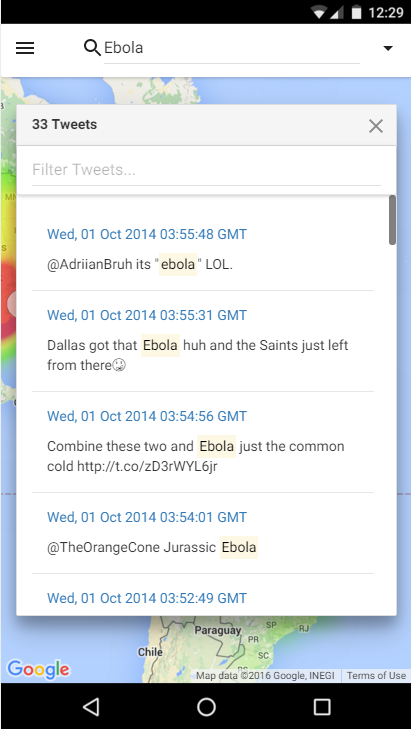
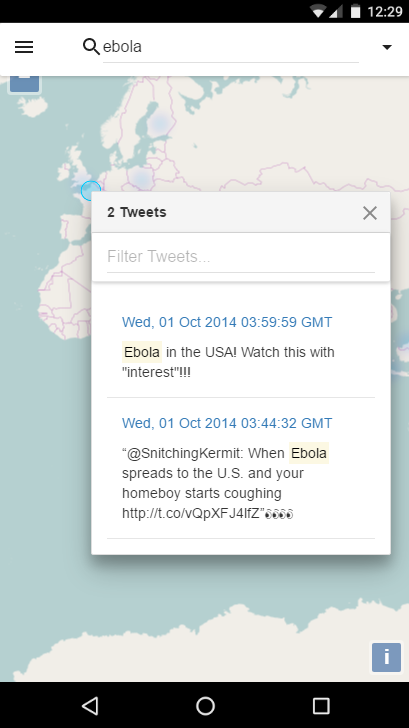
issue_89: adding new screenshots

diff --git a/client/src/components/Map/Map.js b/client/src/components/Map/Map.js
@@ -65,7 +65,8 @@ class Map extends Component {
       isCircleVisible,
       searchUUID,
       tweets,
-      selectedLayer
+      selectedLayer,
+      coordinate
     } = this.props;
 
     // work with map circle only if its property has changed
@@ -87,18 +88,22 @@ class Map extends Component {
     if (prevProps.selectedLayer !== selectedLayer) {
       this._showLayer(selectedLayer);
     }
+
+    // change popup position
+    if (prevProps.coordinate !== coordinate) {
+      this._popupOverlay.setPosition(coordinate);
+    }
   }
 
   _mapOnClick = (event) => {
     const { onClick, clickRadius } = this.props;
 
-    const { coordinate, pixel } = event;
-    this._popupOverlay.setPosition(coordinate);
+    const { coordinate } = event;
     const lonLat = ol.proj.transform(coordinate, epsg3857, epsg4326);
 
     // TBD: we need to move this logic somewhere else
     // get tweets which are in the selection circle
-    const mainSource = this._heatMapLayer.getSource();
+    const mainSource = this._heatMapLayer.getSource() || new ol.source.Vector();
     const circleSource = this._getCircleVectorSource(lonLat, coordinate, clickRadius);
     const selectedFeatures = mainSource.getFeaturesInExtent(circleSource.getExtent());
     const selectedTweets = selectedFeatures.map(feature => {
@@ -109,7 +114,7 @@ class Map extends Component {
       };
     });
 
-    onClick(pixel, lonLat, coordinate, selectedTweets);
+    onClick(lonLat, coordinate, selectedTweets);
   };
 
   _createTileLayer = () => {

diff --git a/client/src/containers/MapContainer/MapContainer.js b/client/src/containers/MapContainer/MapContainer.js
@@ -7,7 +7,7 @@ import * as dataPopupActions from '../../actions/dataPopupActions.js';
 import { Map } from '../../components';
 
 class MapContainer extends Component {
-  _onClick = (pixel, lonLat, coordinate, selectedTweets) => {
+  _onClick = (lonLat, coordinate, selectedTweets) => {
     const {
       click,
       show,
@@ -26,7 +26,7 @@ class MapContainer extends Component {
       return;
     }
 
-    show(pixel);
+    show(coordinate);
     click(lonLat, coordinate, selectedTweets);
   };
 

diff --git a/client/src/reducers/dataPopup.js b/client/src/reducers/dataPopup.js
@@ -1,7 +1,7 @@
 import * as types from '../constants/actionTypes.js';
 
 const initialState = {
-  pixel: [0, 0],
+  coordinate: [0, 0],
   visible: false,
   filterText: '',
   showFilter: true,
@@ -27,7 +27,7 @@ export default function dataPopup(state = initialState, action) {
         ...state,
         filterText: '',
         visible: true,
-        pixel: action.pixel
+        coordinate: action.coordinate
       };
     case types.SLIDEPANEL_SHOW:
     case types.NAVBAR_SEARCHSTRING_FOCUS:

diff --git a/client/static/templates/index.html b/client/static/templates/index.html
@@ -2,7 +2,7 @@
 <html lang="en">
   <head>
     <meta charset="UTF-8">
-    <meta name="viewport" content="width=device-width, initial-scale=1">
+    <meta name="viewport" content="initial-scale=1.0, user-scalable=no, width=device-width">
     <title>TweetGeoViz</title>
     <script src="https://maps.googleapis.com/maps/api/js?libraries=geometry,visualization" type="text/javascript" charset="utf-8"></script>
   </head>

diff --git a/client/src/actions/dataPopupActions.js b/client/src/actions/dataPopupActions.js
@@ -4,9 +4,9 @@ export const close = () => ({
   type: types.POPUP_CLOSE
 });
 
-export const show = (pixel) => ({
+export const show = (coordinate) => ({
   type: types.POPUP_SHOW,
-  pixel
+  coordinate
 });
 
 export const changeValue = (name, value) => ({

diff --git a/client/src/reducers/map.js b/client/src/reducers/map.js
@@ -7,7 +7,7 @@ export const CLUSTER_LAYER_NAME = 'Clusters';
 
 const initialState = {
   lonLat: [0, 0],
-  coordinate: undefined,
+  coordinate: [0, 0],
   isCircleVisible: false,
   isMapClickEnabled: true,
   clickRadius: 250,
